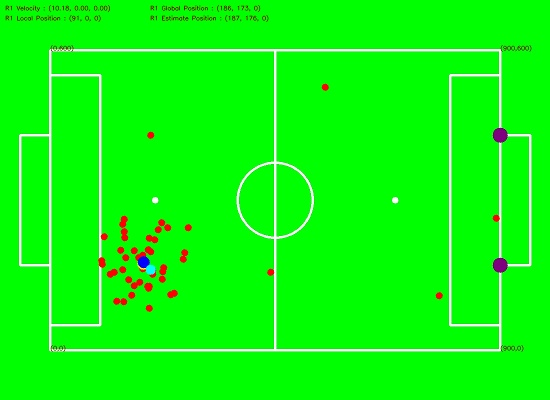
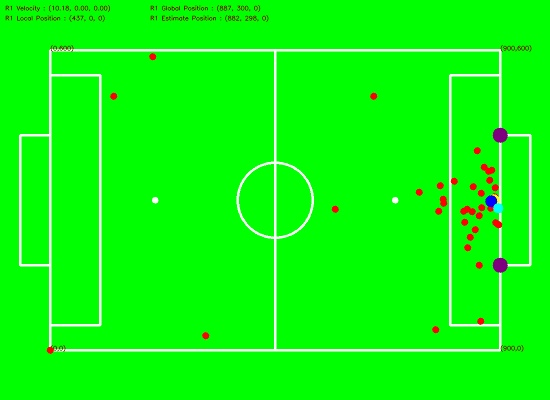
Masukin gambar

diff --git a/Source-Code/BarelangFC-Particle-Filter-Sim.py b/Source-Code/BarelangFC-Particle-Filter-Sim.py
@@ -200,21 +200,21 @@ def main():
             loop += 1
             print 'Runtime : {} s'.format(deltaTime*loop) 
 
-            mapFromFile = True
+            mapFromFile = False
             if mapFromFile == True:
                 # image tidak clear
                 mapImage[:] = cv2.imread('mapImage.jpg')
             else:
                 mapImage[:] = (0, 255, 0)
-                cv2.rectangle(mapImage,(100,100),(1000,700),(255,255,255),3) # Garis Luar
-                cv2.rectangle(mapImage,(40,530),(100,270),(255,255,255),3) # Garis Luar Gawang Kiri
-                cv2.rectangle(mapImage,(1000,530),(1060,270),(255,255,255),3) # Garis Luar Gawang Kiri
-                cv2.rectangle(mapImage,(100,650),(200,150),(255,255,255),3) # Garis Luar Gawang Kiri
-                cv2.rectangle(mapImage,(900,650),(1000,150),(255,255,255),3) # Garis Luar Gawang Kiri
-                cv2.line(mapImage,(550,100),(550,700),(255,255,255),3) # Garis Tengah
-                cv2.circle(mapImage,(550,400), 75, (255,255,255), 3) # Lingkaran Tengah
-                cv2.circle(mapImage,(310,400), 3, (255,255,255), 5)
-                cv2.circle(mapImage,(790,400), 3, (255,255,255), 5)
+                cv2.rectangle(mapImage, (100,100), (1000,700), (255,255,255), 3) # Garis Luar
+                cv2.rectangle(mapImage, (40,530), (100,270), (255,255,255), 3) # Garis Luar Gawang Kiri
+                cv2.rectangle(mapImage, (1000,530), (1060,270), (255,255,255), 3) # Garis Luar Gawang Kiri
+                cv2.rectangle(mapImage, (100,650), (200,150), (255,255,255), 3) # Garis Luar Gawang Kiri
+                cv2.rectangle(mapImage, (900,650), (1000,150), (255,255,255), 3) # Garis Luar Gawang Kiri
+                cv2.line(mapImage, (550,100), (550,700), (255,255,255), 3) # Garis Tengah
+                cv2.circle(mapImage, (550,400), 75, (255,255,255), 3) # Lingkaran Tengah
+                cv2.circle(mapImage, (310,400), 3, (255,255,255), 5)
+                cv2.circle(mapImage, (790,400), 3, (255,255,255), 5)
 
                 textLine = "(0,0)"
                 x, y = worldCoorToImageCoor(0,0)
